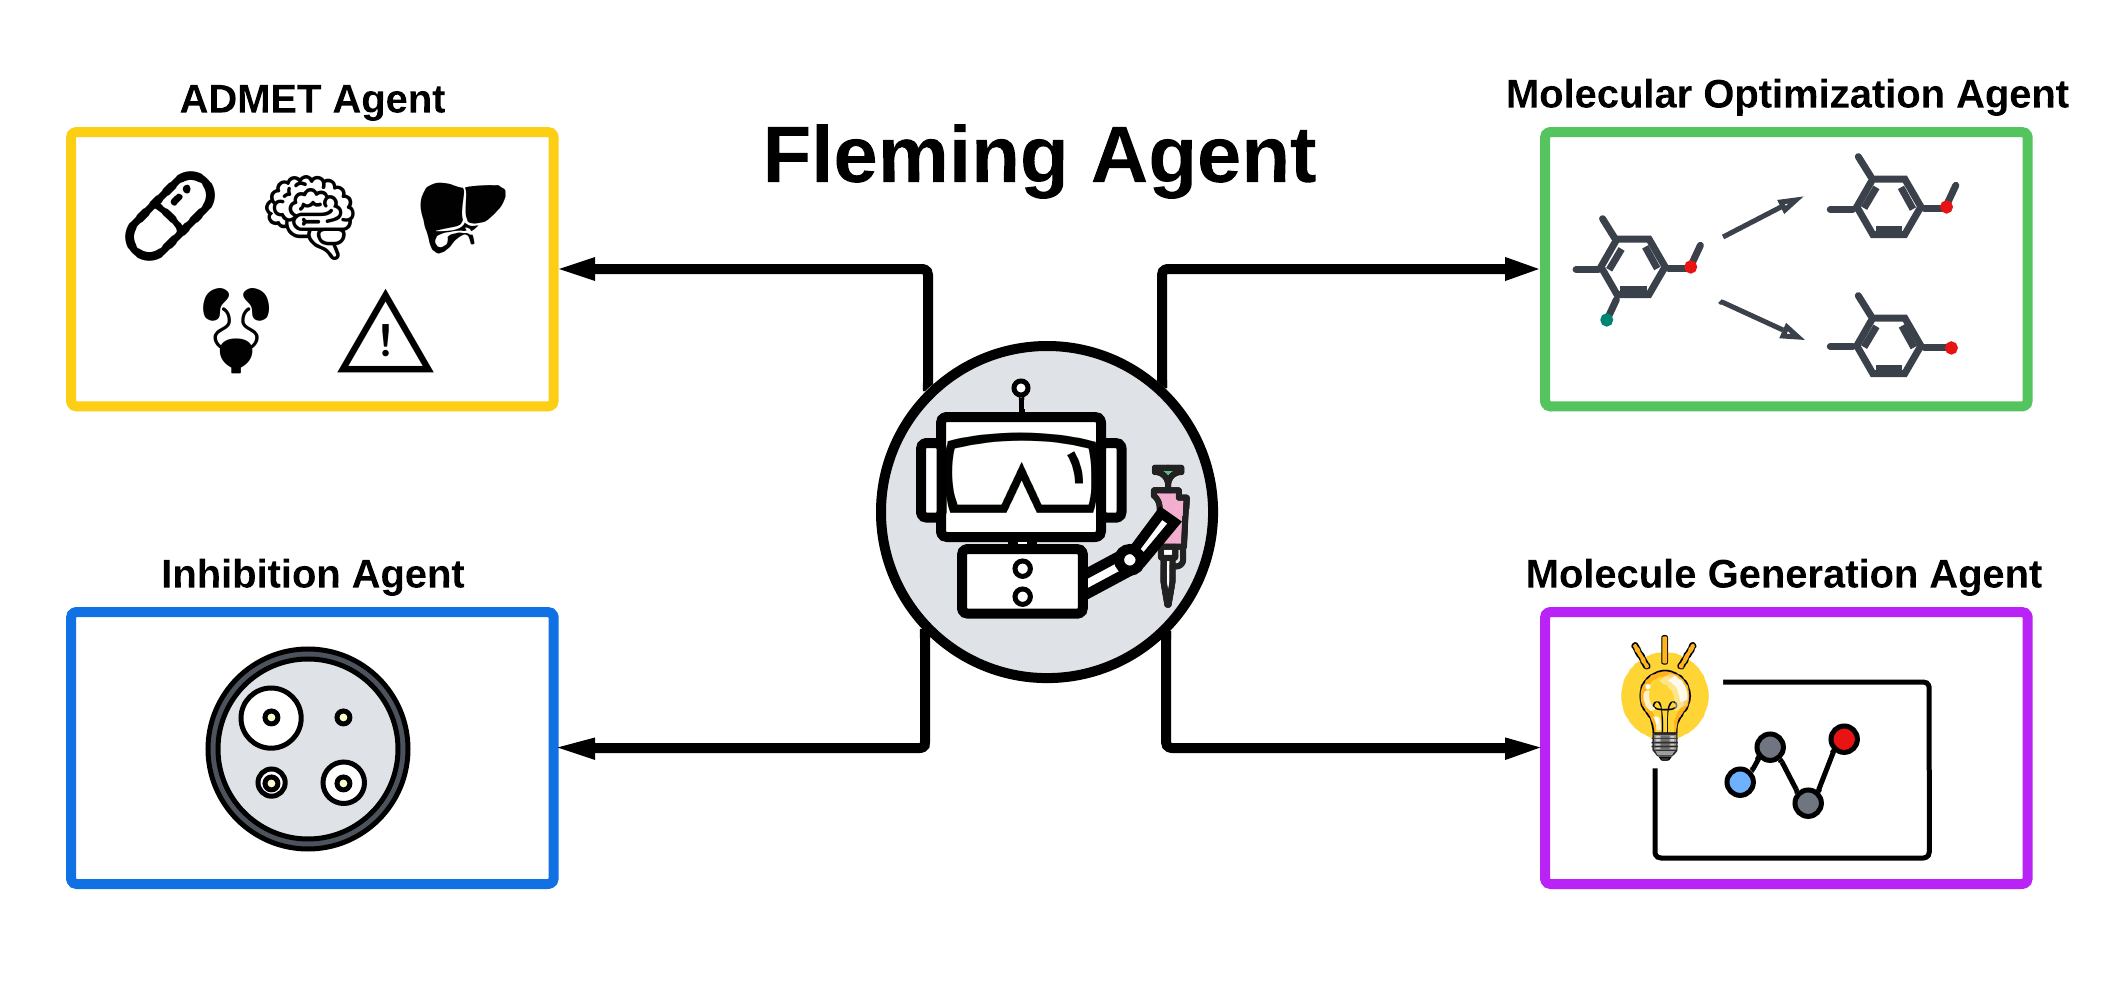
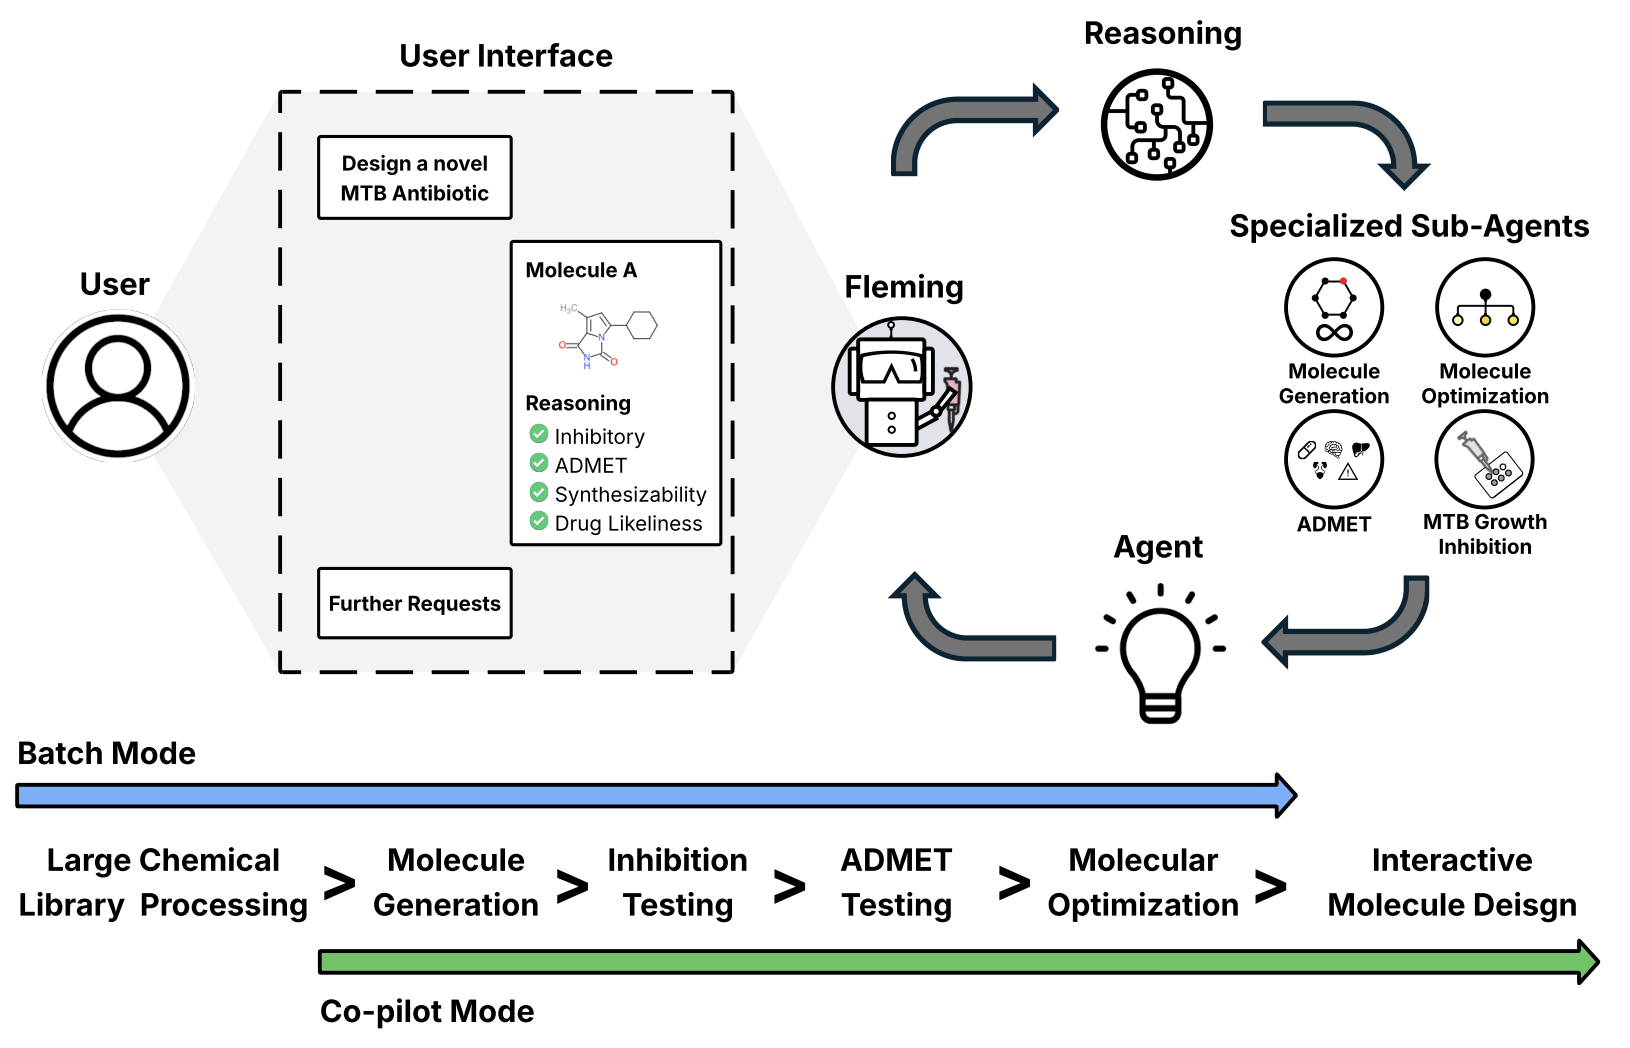
update readme

Changed region(s): [[0.0, 0.0, 0.9816, 0.9776]]

diff --git a/README.md b/README.md
@@ -5,20 +5,49 @@
 # Fleming: An AI Agent for Antibiotic Discovery In Mycobacterium Tuberculosis
 
 ## What is Fleming?
-Fleming is an agent designed to generate novel and plausible TB antibiotics. It consists of a central manager agent that orchestrates the actions of four specialized agents: the inhibition agent, ADMET agent, molecular generation agent, and molecular optimization agent. Together, these agents collaborate to fulfill user-defined tasks in antibiotic discovery. 
+Fleming is an agentic system for designing, prioritizing, and optimizing novel small-molecule antibiotics against Mycobacterium tuberculosis (Mtb). It combines tool-using LLM orchestration with state-of-the-art molecular ML models, literature-aware reasoning, and generative chemistry to support both:
 
+* Co-pilot mode: interactive analysis/design of a small number of molecules in real time
+
+* Batch mode: high-throughput screening, generation, ranking, and optimization of large libraries
 ![fleming](figures/fleming.png)
 
-### Inhibition Agent
-The inhibition agent takes a small molecule and predicts its inhibition of MTB using a model trained on data from 114,933 distinct molecules and their *in vitro* effect on TB growth. This inhibition model also identifies the molecular substructures contributing to its predictions. The agent then leverages an LLM model, GPT-4o, to assess the plausibility of the molecule based on its structure.
+# Overview 
+Fleming is centered around a manager (“medicinal chemist”) agent that routes user requests to specialized sub-agents and combines outputs into a final decision.
+
+### TB Growth Inhibition Agent
+
+Predicts whole-cell Mtb growth inhibition using an evidential DMPNN (eDMPNN) trained on 114,933 compounds/fragments with in vitro growth readouts.
+
+Provides uncertainty-aware predictions (useful for out-of-distribution molecules).
+
+Performs literature retrieval and synthesis to modify predictions based on biological priors. 
+
+Produces model explanations (e.g., substructure attribution) and LLM-based plausibility checks.
 
 ### ADMET Agent
-The ADMET agent operates similarly, leveraging ADMET.AI molecular ML models to predict a small molecule's ADMET properties. After this step, the agent utilizes PaperQA2 to assess the same properties by reviewing relevant literature and lastly making a decision by combining molecular ML model predictions and literature.
+Predicts absorption/distribution/metabolism/excretion/toxicity using ADMET.AI models across many endpoints.
 
+Performs literature-grounded reasoning (literature retrieval + synthesis) to improve robustness, especially when model confidence is low or chemistry is novel.
 ### Molecular Generation Agent
-The molecular generation agent utilizes a conditional small molecule diffusion model and a Monte-Carlo Tree Search model to design novel compounds that are filtered for synthesizability and novelty.
+Designs new candidate inhibitors using:
+
+Conditional equivariant diffusion
+
+SyntheMol / MCTS-style fragment generation
+
+Filters generations for novelty and synthetic feasibility (SAScore/SCScore).
 
 ### Molecular Optimization Agent
-The molecular optimization agent receives an input molecule and directs a secondary agent to identify structurally similar molecules in chemical space that exhibit enhanced ADMET properties. The optimal molecule is then sent back to the manager, which determines whether to proceed with further optimization or to conclude the process.
+Molecular Optimization Agent
 
-## Sample Requests
+Improves ADMET properties via local chemical neighbor search / modification while preserving predicted inhibition.
+
+Supports multi-objective optimization (e.g., reduce hepatotoxicity + avoid hERG + keep inhibition high).
+
+
+## Repo Structure
+
+* `fleming` contains the full AI agent 
+* `evaluation` contains evaluation scripts
+
